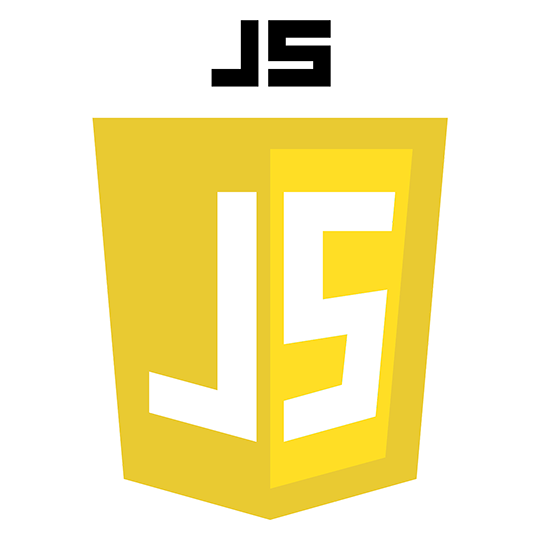
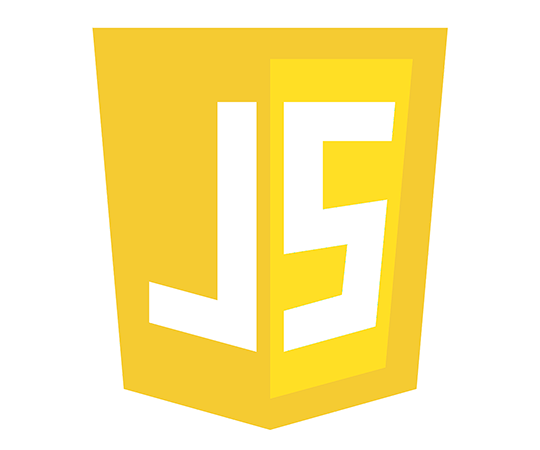
upload

Changed region(s): [[0.1481, 0.0311, 0.8296, 0.9644]]

diff --git a/css/estilo.css b/css/estilo.css
@@ -2763,7 +2763,7 @@ footer ul li a#github {
 
   #ajuste-tamanho-lg-2 {
     width: 500px;
-    margin-top: 0px;
+    margin-top: 30px;
     margin-left: -100px;
   }
 
